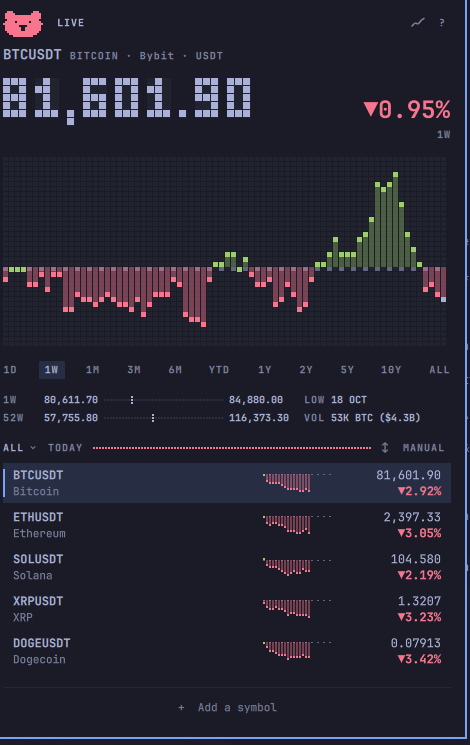
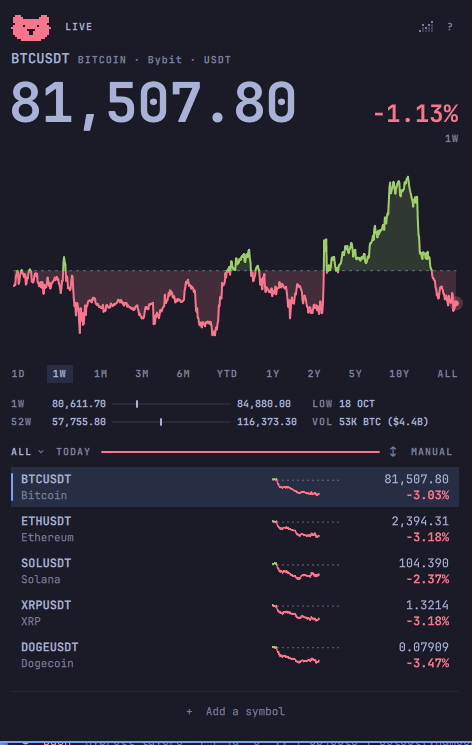
README: the original's, worked for this port, with new screenshots

diff --git a/README.md b/README.md
@@ -1,65 +1,281 @@
 # Crypto Stonks
 
-A crypto futures watchlist for your [Omarchy](https://omarchy.org) bar: a small
-pill with a coin's move today, and a popup with its chart and your lists.
+Crypto Stonks puts a crypto watchlist in your Omarchy 4 bar. A small pill
+shows how a coin is doing today. Click it for that coin's chart and your
+lists, and step through the chart to see the price at any moment on it.
 
-![The popup: BTCUSDT's hero, a week of daily candles, and the watchlist](media/popup.png)
+<img src="media/popup.png" width="480" alt="The Crypto Stonks popup: BTCUSDT at 81,507.80, down 1.13%, over a week's chart, the ranges, the low and high lines, and a list of five symbols">
 
-A pill in the bar shows a coin's move since 00:00 UTC (crypto never closes) as
-a line, an arrow, text with the price, or a bull or a bear. Click it for a
-popup with a chart you can scrub, ranges from 1D to ALL, a 52-week and volume
-block, and your lists of symbols. The same view opens as a window.
+- Bybit USDT perpetual futures, such as BTCUSDT, ETHUSDT, and SOLUSDT.
+- Charts from one day to all time.
+- The day runs from 00:00 UTC, since crypto never closes.
+- Lists of your own, such as a portfolio or a theme.
+- Two looks, smooth and retro, in your theme's colours.
+- No account and no API key.
 
-- Bybit USDT perpetuals, from the public API: no account, no API key.
-- Prices refresh once a minute and say so when they are stale or Bybit is
-  refusing.
-- Lists, order and look are saved in `~/.config/omarchy/wsouto.crypto-stonks.json`,
-  which you may edit by hand.
-- Not planned: a portfolio, API keys, WebSocket. More exchanges can follow:
-  each one is one file, see [docs/ADAPTERS.md](docs/ADAPTERS.md).
+It doesn't track holdings, send price alerts, or show other exchanges' prices.
+
+This is a port of [Stonks](https://github.com/gmchande/omarchy-stonks) by
+Gaurav Chande, which does the same for stocks. See [Credits](#credits).
 
 ## Install
 
-Needs Omarchy 4 and `curl` 7.84 or later. [docs/HOWTO.md](docs/HOWTO.md) has
-the steps to install, update and remove it, and the launcher entry for the
-window.
+Needs Omarchy 4 and `curl` 7.84 or later, which Omarchy ships.
+
+```sh
+ln -s ~/Projects/omarchy-crypto-stonks ~/.config/omarchy/plugins/wsouto.crypto-stonks
+omarchy-shell shell rescanPlugins
+omarchy plugin enable wsouto.crypto-stonks center
+```
+
+That links a checkout of this folder into the shell's plugins and asks where in
+the bar to put `wsouto.crypto-stonks`, which is Crypto Stonks' id. The centre
+is the default. [docs/HOWTO.md](docs/HOWTO.md) has the details, and how to
+update and remove it.
+
+Crypto Stonks starts with five symbols so the pill has something to show:
+BTCUSDT, ETHUSDT, SOLUSDT, XRPUSDT, and DOGEUSDT. Add your own and remove any
+you don't follow.
+
+## The pill
+
+<img src="media/pill.png" width="260" alt="The pill's four forms: a sparkline, an arrow, the symbol with its change, and the day's bear">
+
+The pill shows today's move for the coin you last looked at, in one of four
+forms: a sparkline, an arrow, the price as text, or the day's animal, the
+bull on an up day and the bear on a down one. Middle-click it to change its
+form. On a bar at the side of the screen it shows the animal, and a
+middle-click there switches to the symbol over its change.
+
+Point at it to read what the change is measured from. Left-click for the
+popup and right-click for the window.
+
+## Reading the day
+
+<img src="media/scrub.png" width="480" alt="The popup scrubbed back through the week: the price, the change, and the start of the range follow the cursor">
+
+Press `←` to step back through the chart: the price and the change follow the
+cursor, and `→` steps forward. Click the bull, or on a down day the bear, to
+replay the chart.
+
+Pick a range under the chart, from 1D to ALL, with a click or `[` and `]`. The
+chart then shows that range, even after a restart. The rows stay on the day's
+move. On 1D, press `c` to see the change as a percent or an amount. A longer
+range always shows the percent.
+
+The change is measured from 00:00 UTC, not from Bybit's own rolling 24
+hours, so the two can differ. The pill's hover and the header say so.
+
+Under the ranges, two lines place the price between its low and high: for
+the day or the range, and for the past 52 weeks. Beside them are the open
+and the volume since 00:00 UTC, in the coin and in dollars, or a range's low
+and high dates. A symbol younger than a range shows only its own life, so
+every perpetual's 10Y and ALL look alike.
+
+The top line says LIVE while the price is fresh. An old price says "As of"
+and its time, in UTC, on its row and above the price. Old means more than two
+minutes behind, or saved from the last session. A refresh that fails says so
+in the same places and puts a "!" on the pill.
+
+## Your lists
+
+<img src="media/lists.png" width="480" alt="The list menu open over the rows: All with five symbols, Majors with three, New list, and Manage lists">
+
+Click the list's name to switch lists, start one, or manage them. All holds
+every symbol you follow, and your own lists hold some of them. Ctrl-click a
+row to choose the lists it's in.
+
+Removing a symbol from All removes it everywhere. Removing it from one of your
+lists takes it out of All too, unless another list holds it. Deleting a list
+does the same for its symbols. The last symbol of All stays.
+
+Click "+ Add a symbol" and type a name or a symbol, such as `eth` or
+`solusdt`. The top result shows in the chart, and Enter or a click adds it.
+Search finds Bybit's USDT perpetuals: not USDC contracts, dated futures, or
+stock-like contracts.
+
+To remove a row, right-click it, or press `x` on it. The footer then says what
+you removed, such as "Removed ETHUSDT". Click it, or press `u`, to bring the
+row back.
+
+The line beside the list's name shows how many rows are up, in green, and
+down, in red. Click the order word to sort by symbol, name, or change, and
+click its arrow to reverse the sort. In manual order, drag a row or press
+`Shift+J` and `Shift+K` to move it.
+
+## The window
+
+<img src="media/window.png" width="720" alt="Crypto Stonks' window: the popup's chart and rows at the window's width">
+
+Crypto Stonks also opens in a tiled window: the popup's chart and rows at the
+window's width. To open it, right-click the pill or run
+`omarchy-shell wsouto.crypto-stonks openWindow`. It shares the popup's lists,
+range, and quotes. To float it, match class `org.quickshell` and title
+`Crypto Stonks` in a window rule.
+
+The window also works with no pill. Run
+`omarchy plugin disable wsouto.crypto-stonks`, then add
+`{ "id": "wsouto.crypto-stonks" }` to `plugins` in
+`~/.config/omarchy/shell.json` to keep the plugin loaded. To bring the pill
+back, remove that entry first, then run
+`omarchy plugin enable wsouto.crypto-stonks center`.
+
+For keys that open and close the popup and the window, add these lines to
+`~/.config/hypr/bindings.lua`. Omarchy doesn't use either key by default:
+
+```lua
+o.bind("SUPER + ALT + C", "Crypto Stonks popup", "omarchy-shell shell toggle wsouto.crypto-stonks")
+o.bind("SUPER + SHIFT + C", "Crypto Stonks window", "omarchy-shell wsouto.crypto-stonks toggleWindow")
+```
+
+For Crypto Stonks in the app launcher:
+
+```sh
+cp ~/.config/omarchy/plugins/wsouto.crypto-stonks/share/crypto-stonks.desktop ~/.local/share/applications/
+mkdir -p ~/.local/share/icons/hicolor/scalable/apps
+cp ~/.config/omarchy/plugins/wsouto.crypto-stonks/share/wsouto.crypto-stonks.svg ~/.local/share/icons/hicolor/scalable/apps/
+```
+
+## Smooth or retro
+
+<img src="media/retro.png" width="480" alt="The popup in retro: block digits and a chart of pixel columns">
+
+Retro draws the price in block digits and the charts in pixel columns, the
+way Omarchy draws its logo. Click the small chart icon at the top right, or
+press `s`, to switch between smooth and retro.
+
+Both looks draw in your theme's colours, light themes too: up in its green
+and down in its red, or in Crypto Stonks' own pair where the theme's are
+missing, too alike, or too faint.
 
 ## Keys
 
-`?` in the popup shows the same list.
+`?` opens a sheet of the everyday keys. Every key is in this table:
 
 | Key | Does |
 | --- | --- |
-| `↑ ↓`, `1`–`9`, `⏎` | Move the selection, pick a row, show its chart |
-| `a` / `x` / `u` | Search and add a symbol / remove the row / undo the removal |
-| `J K` | Move the row (manual order) |
-| `← →` | Scrub the chart |
-| `[ ]` | Change the chart range |
+| `↑` `↓` | Move the selection |
+| `⏎` | Show the selected row's chart |
+| `1` to `9` | Show that row's chart |
+| `←` `→` | Scrub one chart step |
+| `[` `]` | Change the chart range |
 | `p` | Replay the chart |
-| `w` / `o` / `, .` | List menu / change the order / previous or next list |
-| `s` | Switch smooth and retro |
-| `c` | Switch the day's % and amount |
+| `a` or `+` | Search and add a symbol |
+| `x` | Remove the selected row |
+| `u` | Undo the last removal |
+| Delete or Backspace | Remove the selected row (window) |
+| `Shift+J` `Shift+K` | Move the selected row down or up, in manual order |
+| `o` | Change the list's order |
+| `Shift+O` | Reverse a sorted order |
+| `w` | Open the list menu |
+| `Shift+W` | Manage lists: rename, reorder, delete |
+| `m` | Tick the selected row's lists |
+| `,` `.` | Previous or next list |
+| `c` | Show the day's change as a percent or an amount |
+| `s` | Switch between smooth and retro |
 | `r` | Refresh |
+| `?` | Open the key sheet |
+| `Esc` | Close the sheet, then the scrub, then the popup or window |
 
-Mouse: click the pill to open it, middle-click to change its form; click a row
-for its chart, right-click to remove it, drag it to move it (manual order).
+## If something's wrong
+
+A "!" on the pill means its coin's quote is late or its last refresh failed:
+point at the pill to read which. The row and the line above the price say the
+same.
+
+- **A row says "No network", "Refresh failed" or "No data for this symbol".**
+  Bybit didn't answer, sent a broken answer, or has nothing for the symbol. A
+  row with a price keeps it, with the time it's from. Check your connection,
+  then press `r`. A symbol Bybit has delisted stays this way: remove it.
+- **Everything fails with "too many requests… or Bybit is not available where
+  you are".** Bybit answered 403. It does that when an IP sends too many
+  requests, and to places it doesn't serve, such as the US. Crypto Stonks
+  leaves Bybit alone for 10 minutes after one, and `r` won't hurry it. If you
+  are somewhere Bybit doesn't serve, there is nothing to do.
+- **A price looks wrong.** It is Bybit's last traded price for the USDT
+  perpetual, not a spot price, and it is never converted. The change runs from
+  00:00 UTC. Bybit's own "24h change" is a rolling 24 hours.
+- **The header says "Loading BTCUSDT 1W".** The range's candles are on their
+  way.
+- **The header says "1W unavailable", with RETRY beside it.** Bybit didn't
+  send that range's chart. Click RETRY, or press `r`. While Bybit is turning
+  Crypto Stonks away, a range fails at once.
+- **Search says "The symbol list didn't load", with RETRY beside it.** The
+  list of Bybit's contracts, which search reads, didn't come. Click RETRY, or
+  press Enter. Once it has come, search needs no network until the saved list
+  is a day old.
+- **The footer says "Can't read the data file".** The file holding your lists
+  can't be opened or isn't valid JSON, often after a hand edit. Crypto Stonks
+  keeps the lists it has and writes nothing over the file until it can read it
+  again. Fix the file and it reads it as you save, or remove it to start over
+  with the five starter symbols.
+
+## What it runs
+
+- **Needs:** nothing beyond Omarchy 4. It runs `curl`, which Omarchy ships.
+- **Commands:** `curl` for every request. Nothing else.
+- **Sites:** `api.bybit.com`, for prices, candles, and the list of contracts.
+  Nothing else.
+- **Data:** Bybit's public market API, which needs no key. It may change or
+  stop without notice. Crypto Stonks isn't investment advice, and isn't
+  affiliated with Bybit.
+- **Files it writes:** your lists and settings in
+  `~/.config/omarchy/wsouto.crypto-stonks.json`, and the last quotes and the
+  list of contracts in `~/.cache/wsouto.crypto-stonks/`. The shell keeps the
+  pill's form on its bar entry in `~/.config/omarchy/shell.json`.
+- **Limits:** every request has a time limit of 10 seconds and a size cap.
+  Prices refresh every minute. A row's day line comes every 5 minutes, and the
+  symbol on the pill and in the popup's chart every minute. A window no screen
+  shows fetches nothing. Bybit allows far more requests than this, and a
+  refusal is left alone for as long as it asks.
+
+Every request runs through the one curl command in [`Fetch.js`](Fetch.js),
+which sets its limits, and only the files in [`adapters/`](adapters/) name an
+exchange's endpoints. [`test/boundaries.sh`](test/boundaries.sh) fails if a
+command, a file read or write, or a request turns up outside the few files
+allowed them. It runs with the other checks in `bash test/check.sh`.
+
+## Remove
+
+```sh
+omarchy plugin disable wsouto.crypto-stonks
+rm ~/.config/omarchy/plugins/wsouto.crypto-stonks    # removes the link only
+```
+
+Your lists, the saved quotes, and the launcher files, if you added them, stay.
+Delete what you no longer want:
+
+```sh
+rm ~/.config/omarchy/wsouto.crypto-stonks.json   # your lists; keep it to reinstall later
+rm -r ~/.cache/wsouto.crypto-stonks
+rm -f ~/.local/share/applications/crypto-stonks.desktop ~/.local/share/icons/hicolor/scalable/apps/wsouto.crypto-stonks.svg
+```
+
+If you added them, also delete the `{ "id": "wsouto.crypto-stonks" }` entry in
+`plugins` in `~/.config/omarchy/shell.json`, and the `o.bind` lines in
+`~/.config/hypr/bindings.lua`.
 
 ## Credits
 
-The layout, the features, the keys and much of the structure come from
+The layout, the features, the keys, and much of the structure come from
 **[Stonks](https://github.com/gmchande/omarchy-stonks)** by
 [Gaurav Chande](https://github.com/gmchande), which shows stocks from Yahoo
 Finance in the Omarchy bar. This project reuses and adapts parts of its code
-under the MIT licence and replaces its data layer with exchange adapters.
-Thank you, Gaurav. The original is maintained at
+and of this page under the MIT licence, and replaces its data layer with
+exchange adapters. Thank you, Gaurav. The original is maintained at
 <https://github.com/gmchande/omarchy-stonks>. If you want stocks, use that.
 
-Files copied from Stonks keep their header comments. Both copyright lines are
-in [LICENSE](LICENSE).
+Files copied from Stonks keep their header comments, and
+[docs/DIFFERENCES.md](docs/DIFFERENCES.md) lists where this project departs
+from it. Both copyright lines are in [LICENSE](LICENSE).
 
-This project is not affiliated with Stonks, Omarchy or any exchange. It is not
+This project is not affiliated with Stonks, Omarchy, or any exchange. It is not
 investment advice.
 
-## Licence
+## Contributing
 
-MIT, see [LICENSE](LICENSE).
+How the project is built, how to run your checkout, and the checks are in
+[CONTRIBUTING.md](CONTRIBUTING.md). [docs/ROADMAP.md](docs/ROADMAP.md) says
+what comes next.
+
+License: MIT, see [LICENSE](LICENSE).
